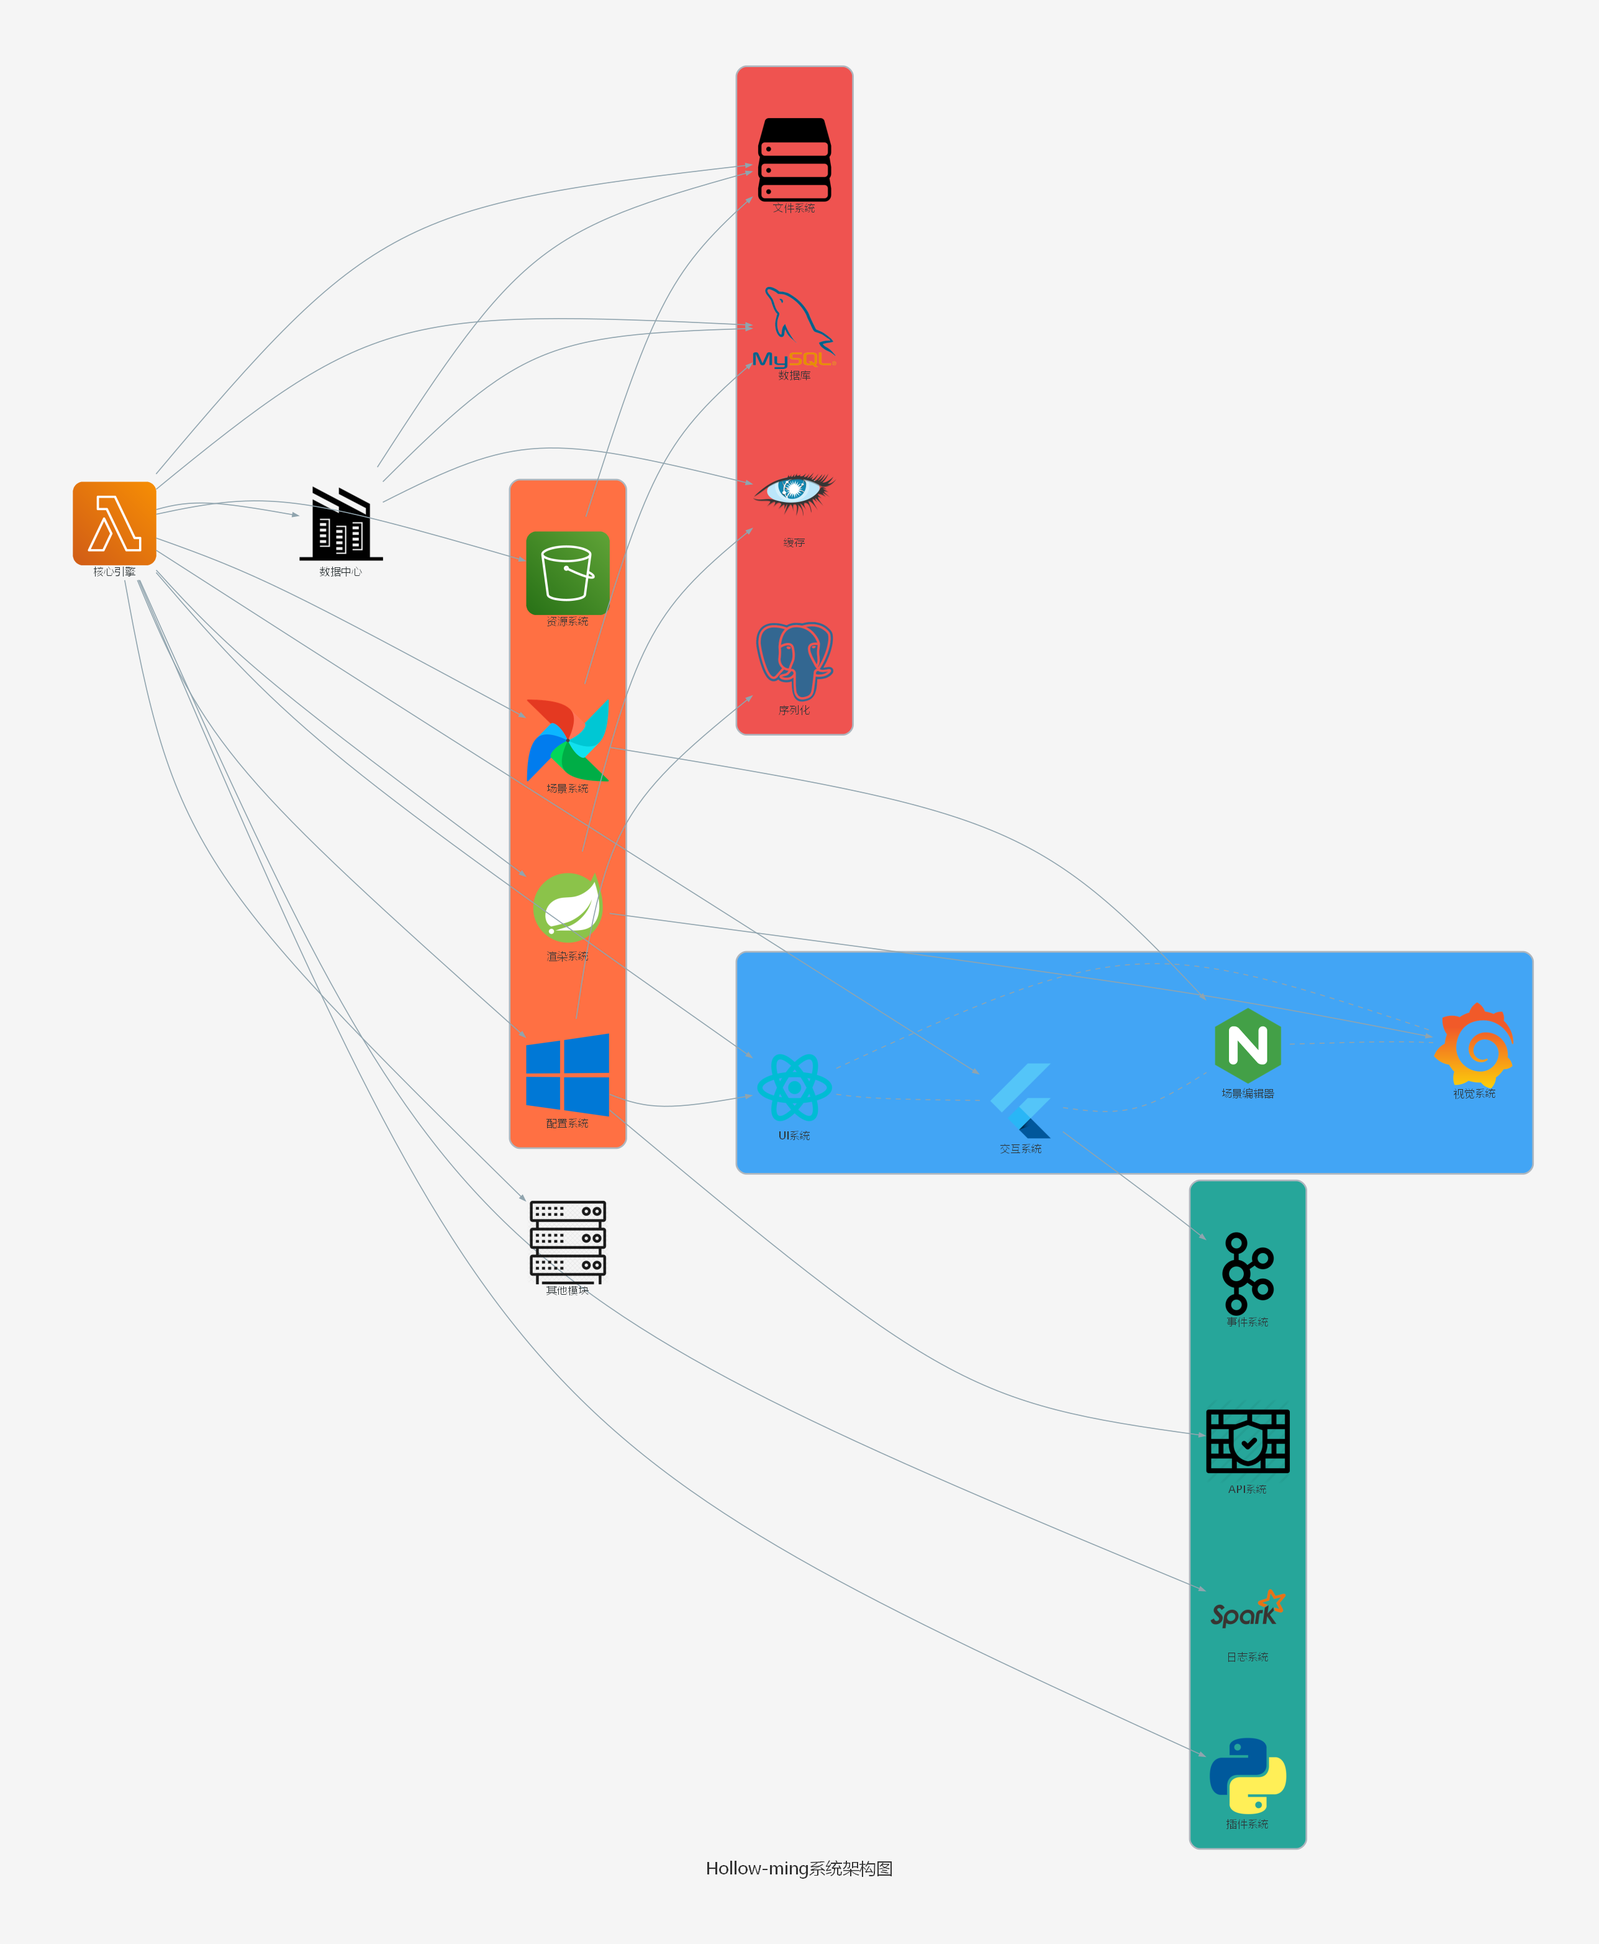
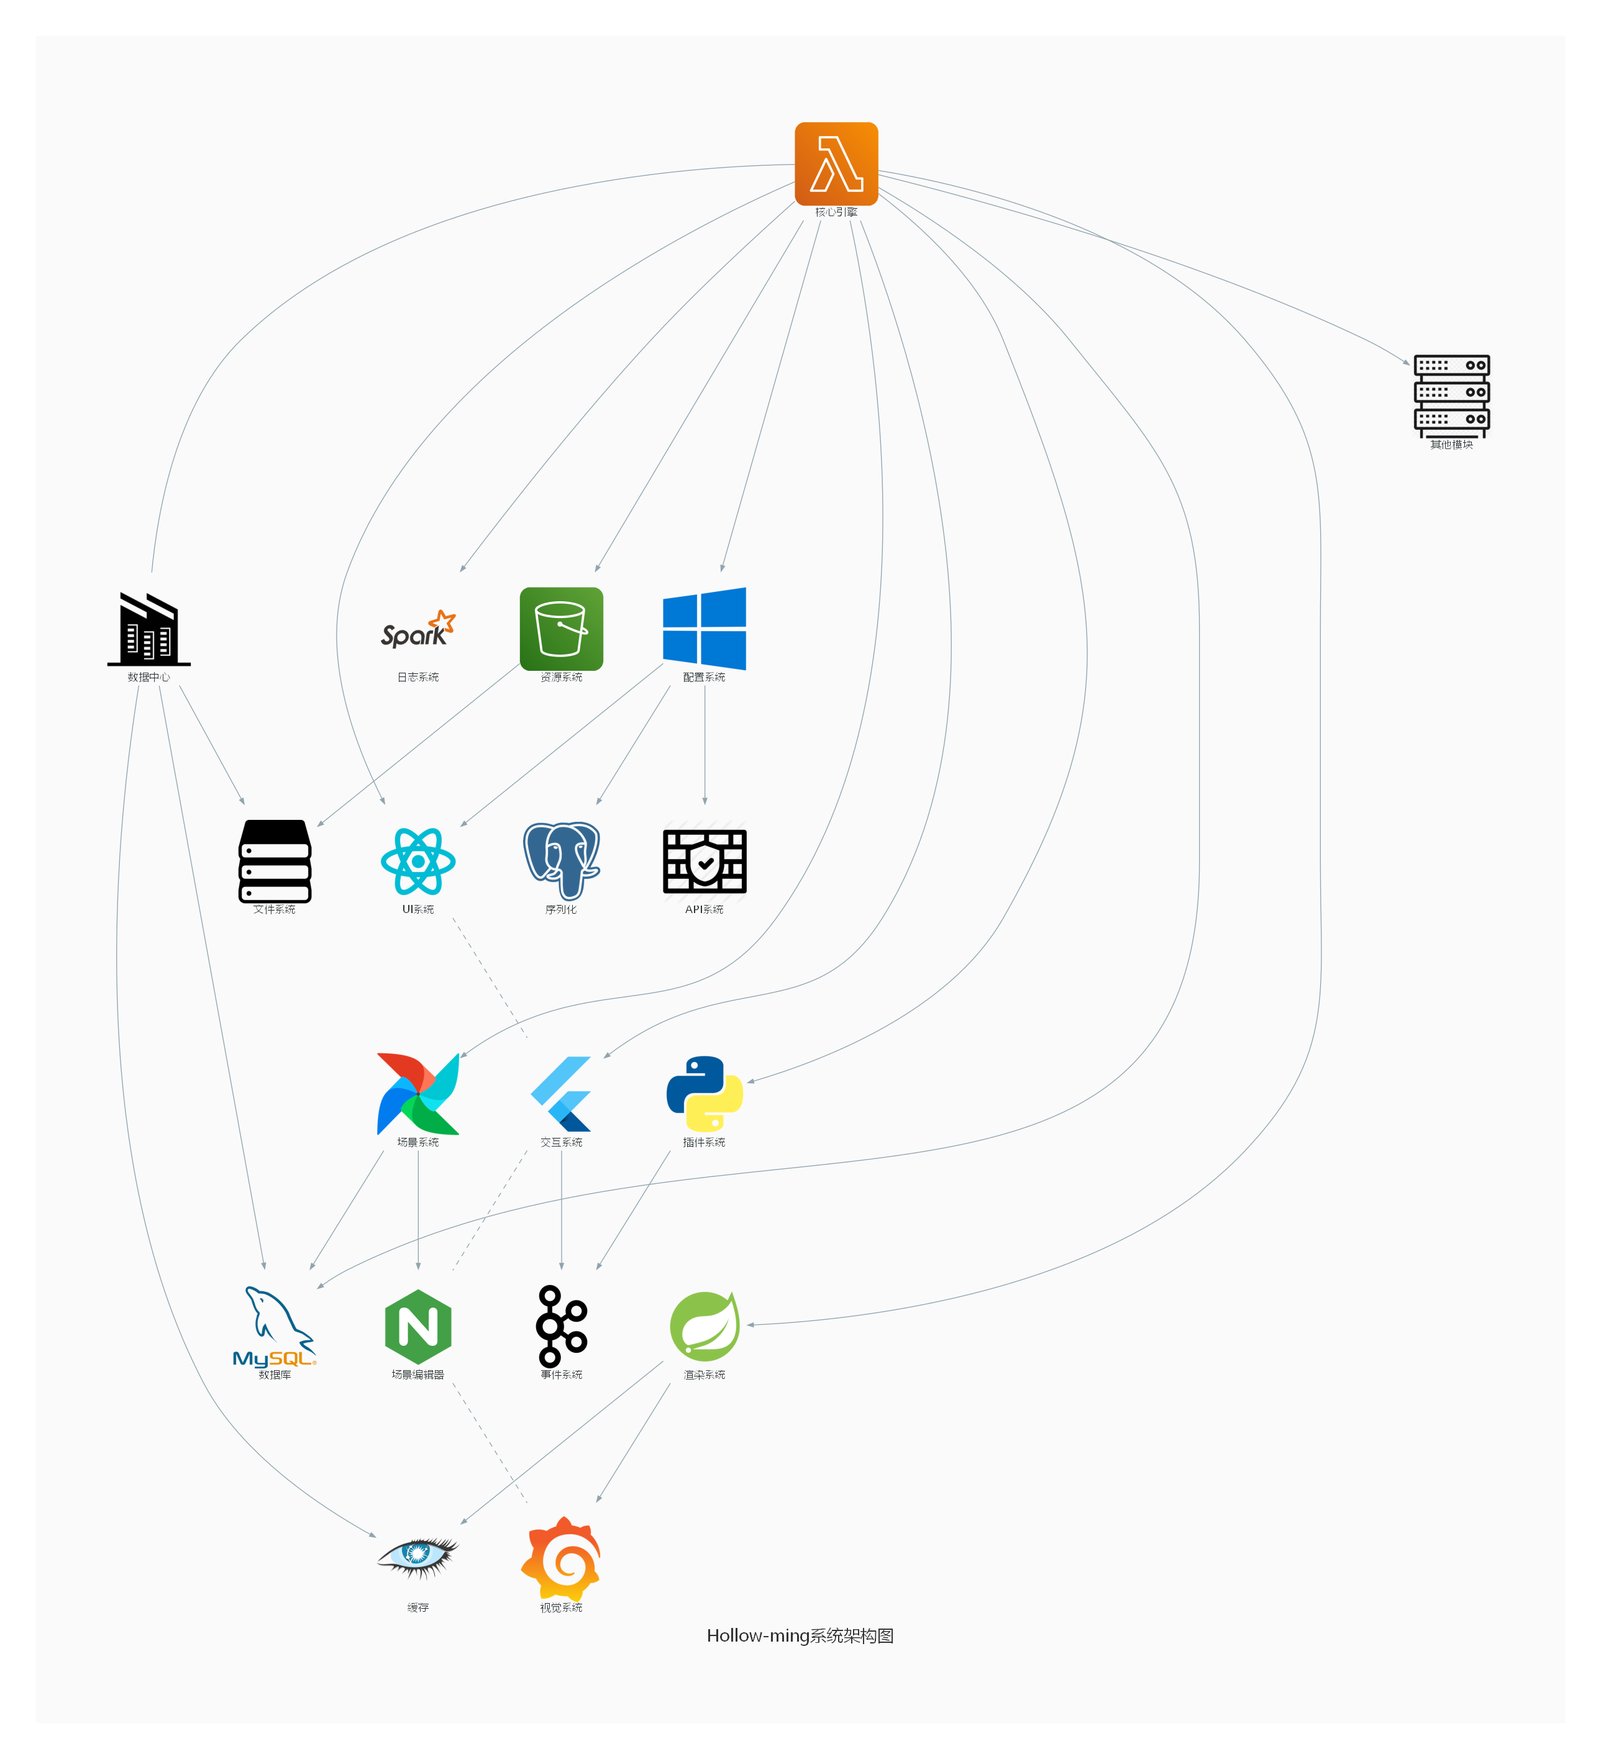
[图表] 优化中心辐射型架构图，完善环形排列，通过颜色梯度增强层次感

diff --git a/Diagrams/Architecture/system_architecture.py b/Diagrams/Architecture/system_architecture.py
@@ -23,6 +23,7 @@ Changed history:
                             2024/04/04: 修复图标初始化错误;
                             2024/04/04: 为每个节点添加专有图标，提高节点区分度;
                             2024/04/04: 重构为中心辐射型结构，核心引擎居中，其他模块环绕;
+                            2024/04/04: 优化中心辐射结构，完善环形排列，调整层次感;
 ----
 """
 
@@ -89,17 +90,30 @@ class IconNode(Node):
         return '#{:02x}{:02x}{:02x}'.format(*rgb)
 
 def generate_diagram():
-    """生成中心辐射型系统架构图"""
+    """生成中心辐射型系统架构图 - 优化环形布局"""
     
     # 颜色方案
     colors = {
-        'core': '#7e57c2',          # 紫色 - 核心层
-        'business': '#ff7043',      # 橙色 - 业务层
-        'presentation': '#42a5f5',  # 蓝色 - 表现层
-        'tool': '#26a69a',          # 青色 - 工具层
-        'data': '#ef5350',          # 红色 - 数据层
-        'module': '#78909c',        # 灰色 - 其他模块
-        'datacenter': '#333333',    # 深灰色 - 数据中心
+        'core': '#673ab7',          # 紫色 - 核心引擎
+        'datacenter': '#212121',    # 深灰色 - 数据中心
+        
+        # 业务层 - 橙色渐变
+        'business_main': '#f57c00', # 主色
+        'business_sec': '#ff9800',  # 次色
+        
+        # 表现层 - 蓝色渐变
+        'presentation_main': '#1976d2', # 主色 
+        'presentation_sec': '#42a5f5',  # 次色
+        
+        # 工具层 - 青色渐变
+        'tool_main': '#00796b',     # 主色
+        'tool_sec': '#26a69a',      # 次色
+        
+        # 数据层 - 红色渐变
+        'data_main': '#c62828',     # 主色
+        'data_sec': '#ef5350',      # 次色
+        
+        'module': '#546e7a',        # 灰蓝色 - 其他模块
         'cluster_bg': '#e3f2fd',    # 浅蓝色 - 分组背景
     }
     
@@ -109,20 +123,20 @@ def generate_diagram():
         filename="system_architecture",
         outformat="png",
         show=False,
-        # 更改为左右方向，便于创建辐射状结构
-        direction="LR",
+        direction="TB", # 改回上下方向，但改变布局策略
         graph_attr={
-            "bgcolor": "#f5f5f5",       # 浅灰色背景
+            "bgcolor": "#fafafa",       # 更浅的灰色背景
             "fontcolor": "#333333",
             "fontname": "Microsoft YaHei",
             "fontsize": "20",
-            "ranksep": "2.4",           # 增加层级间距
-            "nodesep": "0.9",
-            "pad": "1.0",
-            "splines": "curved",        # 使用曲线连接，增强辐射感
+            "ranksep": "2.0",           # 增加层级间距
+            "nodesep": "1.0",
+            "pad": "1.2",
+            "splines": "spline",        # 使用曲线连接，增强辐射感
             "overlap": "false",
             "concentrate": "false",
-            "rankdir": "LR",
+            "center": "true",
+            "margin": "0.6",
             "compound": "true",        # 允许向集群而不仅仅是节点连线
         },
         node_attr={
@@ -131,206 +145,172 @@ def generate_diagram():
         },
         edge_attr={
             "color": "#90a4ae",
-            "penwidth": "1.2",
+            "penwidth": "1.0",
             "arrowsize": "0.7",
         }
     ):
         # ===== 创建核心区域 =====
-        with Cluster("", graph_attr={"style": "invis"}):
-            # 创建核心节点 - 使用圆形更符合中心辐射的视觉效果
-            core_engine = Lambda("核心引擎")
-            core_engine._attrs["style"] = "filled"
-            core_engine._attrs["shape"] = "circle"
-            core_engine._attrs["fillcolor"] = colors['core']
-            core_engine._attrs["fontcolor"] = "#FFFFFF"
-            core_engine._attrs["width"] = "1.5"
-            core_engine._attrs["height"] = "1.5"
-            core_engine._attrs["fontsize"] = "15"
-            core_engine._attrs["penwidth"] = "2.0"
-            
-            # 创建数据中心节点
-            datacenter = Datacenter("数据中心")
-            datacenter._attrs["fillcolor"] = colors['datacenter']
-            datacenter._attrs["fontcolor"] = "#FFFFFF" 
-            datacenter._attrs["style"] = "filled"
+        # 创建核心节点 - 在正中央
+        core_engine = Lambda("核心引擎")
+        core_engine._attrs["style"] = "filled"
+        core_engine._attrs["shape"] = "circle"
+        core_engine._attrs["fillcolor"] = colors['core']
+        core_engine._attrs["fontcolor"] = "#FFFFFF"
+        core_engine._attrs["width"] = "1.8"
+        core_engine._attrs["height"] = "1.8"
+        core_engine._attrs["fontsize"] = "14"
+        core_engine._attrs["penwidth"] = "2.0"
         
-        # ===== 创建业务层（右上方） =====
-        with Cluster("业务层", graph_attr={
-            "bgcolor": colors['cluster_bg'],
-            "style": "filled,rounded",
-            "color": colors['business'],
-            "fontcolor": colors['business'],
-            "fontsize": "16",
-            "margin": "20",
-            "penwidth": "2.0",
-            "rank": "same",
-        }):
+        # 创建数据中心节点
+        datacenter = Datacenter("数据中心")
+        datacenter._attrs["fillcolor"] = colors['datacenter']
+        datacenter._attrs["fontcolor"] = "#FFFFFF" 
+        datacenter._attrs["style"] = "filled"
+        
+        # ============ 第一层 - 主要系统 ============
+        with Cluster("", graph_attr={"style": "invis"}):
+            # 放置在左上、右上、左下、右下四个主要位置
+            
+            # 业务层 - 主要系统
             config_system = Windows("配置系统")
             config_system._attrs["style"] = "filled,rounded"
-            config_system._attrs["fillcolor"] = colors['business']
+            config_system._attrs["fillcolor"] = colors['business_main']
             config_system._attrs["fontcolor"] = "#FFFFFF"
             
+            # 表现层 - 主要系统
+            ui_system = React("UI系统")
+            ui_system._attrs["style"] = "filled,rounded"
+            ui_system._attrs["fillcolor"] = colors['presentation_main']
+            ui_system._attrs["fontcolor"] = "#FFFFFF"
+            
+            # 数据层 - 主要系统
+            database = MySQL("数据库")
+            database._attrs["style"] = "filled,rounded"
+            database._attrs["fillcolor"] = colors['data_main']
+            database._attrs["fontcolor"] = "#FFFFFF"
+            
+            # 工具层 - 主要系统
+            plugin_system = Python("插件系统")
+            plugin_system._attrs["style"] = "filled,rounded"
+            plugin_system._attrs["fillcolor"] = colors['tool_main']
+            plugin_system._attrs["fontcolor"] = "#FFFFFF"
+        
+        # ============ 第二层 - 次要系统 ============
+        with Cluster("", graph_attr={"style": "invis"}):
+            # 业务层 - 次要系统
             render_system = Spring("渲染系统")
             render_system._attrs["style"] = "filled,rounded"
-            render_system._attrs["fillcolor"] = colors['business']
+            render_system._attrs["fillcolor"] = colors['business_sec']
             render_system._attrs["fontcolor"] = "#FFFFFF"
             
             resource_system = S3("资源系统")
             resource_system._attrs["style"] = "filled,rounded"
-            resource_system._attrs["fillcolor"] = colors['business']
+            resource_system._attrs["fillcolor"] = colors['business_sec']
             resource_system._attrs["fontcolor"] = "#FFFFFF"
             
             scene_system = Airflow("场景系统")
             scene_system._attrs["style"] = "filled,rounded"
-            scene_system._attrs["fillcolor"] = colors['business']
+            scene_system._attrs["fillcolor"] = colors['business_sec']
             scene_system._attrs["fontcolor"] = "#FFFFFF"
-        
-        # ===== 创建表现层（右下方） =====
-        with Cluster("表现层", graph_attr={
-            "bgcolor": colors['cluster_bg'],
-            "style": "filled,rounded",
-            "color": colors['presentation'],
-            "fontcolor": colors['presentation'],
-            "fontsize": "16",
-            "margin": "20",
-            "penwidth": "2.0",
-            "rank": "same",
-        }):
-            ui_system = React("UI系统")
-            ui_system._attrs["style"] = "filled,rounded"
-            ui_system._attrs["fillcolor"] = colors['presentation']
-            ui_system._attrs["fontcolor"] = "#FFFFFF"
             
+            # 表现层 - 次要系统
             interaction_system = Flutter("交互系统")
             interaction_system._attrs["style"] = "filled,rounded"
-            interaction_system._attrs["fillcolor"] = colors['presentation']
+            interaction_system._attrs["fillcolor"] = colors['presentation_sec']
             interaction_system._attrs["fontcolor"] = "#FFFFFF"
             
             scene_editor = Nginx("场景编辑器")
             scene_editor._attrs["style"] = "filled,rounded"
-            scene_editor._attrs["fillcolor"] = colors['presentation']
+            scene_editor._attrs["fillcolor"] = colors['presentation_sec']
             scene_editor._attrs["fontcolor"] = "#FFFFFF"
             
             visual_system = Grafana("视觉系统")
             visual_system._attrs["style"] = "filled,rounded"
-            visual_system._attrs["fillcolor"] = colors['presentation']
+            visual_system._attrs["fillcolor"] = colors['presentation_sec']
             visual_system._attrs["fontcolor"] = "#FFFFFF"
-        
-        # ===== 创建数据层（左下方） =====
-        with Cluster("数据层", graph_attr={
-            "bgcolor": colors['cluster_bg'],
-            "style": "filled,rounded",
-            "color": colors['data'],
-            "fontcolor": colors['data'],
-            "fontsize": "16",
-            "margin": "20",
-            "penwidth": "2.0",
-            "rank": "same",
-        }):
+            
+            # 数据层 - 次要系统
             file_system = Storage("文件系统")
             file_system._attrs["style"] = "filled,rounded"
-            file_system._attrs["fillcolor"] = colors['data']
+            file_system._attrs["fillcolor"] = colors['data_sec']
             file_system._attrs["fontcolor"] = "#FFFFFF"
-            
-            database = MySQL("数据库")
-            database._attrs["style"] = "filled,rounded"
-            database._attrs["fillcolor"] = colors['data']
-            database._attrs["fontcolor"] = "#FFFFFF"
             
             cache = Cassandra("缓存")
             cache._attrs["style"] = "filled,rounded"
-            cache._attrs["fillcolor"] = colors['data']
+            cache._attrs["fillcolor"] = colors['data_sec']
             cache._attrs["fontcolor"] = "#FFFFFF"
             
             serialization = PostgreSQL("序列化")
             serialization._attrs["style"] = "filled,rounded"
-            serialization._attrs["fillcolor"] = colors['data']
+            serialization._attrs["fillcolor"] = colors['data_sec']
             serialization._attrs["fontcolor"] = "#FFFFFF"
-        
-        # ===== 创建工具层（左上方） =====
-        with Cluster("工具层", graph_attr={
-            "bgcolor": colors['cluster_bg'],
-            "style": "filled,rounded",
-            "color": colors['tool'],
-            "fontcolor": colors['tool'],
-            "fontsize": "16",
-            "margin": "20",
-            "penwidth": "2.0",
-            "rank": "same",
-        }):
-            plugin_system = Python("插件系统")
-            plugin_system._attrs["style"] = "filled,rounded"
-            plugin_system._attrs["fillcolor"] = colors['tool']
-            plugin_system._attrs["fontcolor"] = "#FFFFFF"
             
+            # 工具层 - 次要系统
             event_system = Kafka("事件系统")
             event_system._attrs["style"] = "filled,rounded"
-            event_system._attrs["fillcolor"] = colors['tool']
+            event_system._attrs["fillcolor"] = colors['tool_sec']
             event_system._attrs["fontcolor"] = "#FFFFFF"
             
             log_system = Spark("日志系统")
             log_system._attrs["style"] = "filled,rounded"
-            log_system._attrs["fillcolor"] = colors['tool']
+            log_system._attrs["fillcolor"] = colors['tool_sec']
             log_system._attrs["fontcolor"] = "#FFFFFF"
             
             api_system = Firewall("API系统")
             api_system._attrs["style"] = "filled,rounded"
-            api_system._attrs["fillcolor"] = colors['tool']
+            api_system._attrs["fillcolor"] = colors['tool_sec']
             api_system._attrs["fontcolor"] = "#FFFFFF"
         
-        # 其他模块（单独显示）
+        # 其他模块
         others = Rack("其他模块")
         others._attrs["style"] = "filled,rounded"
         others._attrs["fillcolor"] = colors['module']
         others._attrs["fontcolor"] = "#FFFFFF"
         
-        # ===== 创建从核心到各层的连接 =====
-        # 数据中心与核心引擎
-        core_engine >> datacenter
+        # ===== 创建连接 =====
+        # 核心与数据中心连接
+        core_engine - datacenter
         
-        # 从核心引擎到各个系统的连接
-        core_engine >> Edge(minlen="2") >> scene_system
-        core_engine >> Edge(minlen="2") >> render_system
-        core_engine >> Edge(minlen="2") >> resource_system
-        core_engine >> Edge(minlen="2") >> config_system
+        # 连接从核心到关键系统 - 主要连接
+        core_engine >> Edge(constraint="true", minlen="2") >> config_system
+        core_engine >> Edge(constraint="true", minlen="2") >> ui_system  
+        core_engine >> Edge(constraint="true", minlen="2") >> database
+        core_engine >> Edge(constraint="true", minlen="2") >> plugin_system
         
-        core_engine >> Edge(minlen="2") >> ui_system
-        core_engine >> Edge(minlen="2") >> interaction_system
+        # 连接核心到其他系统 - 次要连接
+        core_engine >> render_system
+        core_engine >> resource_system
+        core_engine >> scene_system
+        core_engine >> interaction_system
+        core_engine >> log_system
+        core_engine >> others
         
-        core_engine >> Edge(minlen="2") >> plugin_system
-        core_engine >> Edge(minlen="2") >> log_system
-        
-        core_engine >> Edge(minlen="2") >> database
-        core_engine >> Edge(minlen="2") >> file_system
-        
-        core_engine >> Edge(minlen="2") >> others
-        
-        # ===== 创建各层内的连接 =====
-        # 业务层连接
-        scene_system >> scene_editor
-        render_system >> visual_system
+        # 业务层连接 - 形成树状结构
+        config_system >> api_system
+        config_system >> serialization
         config_system >> ui_system
+        
+        render_system >> visual_system
+        render_system >> cache
+        
         resource_system >> file_system
         
-        # 数据层连接
-        datacenter >> database
-        datacenter >> cache
-        datacenter >> file_system
+        scene_system >> scene_editor
+        scene_system >> database
         
         # 表现层内部连接（虚线）
         ui_system - Edge(style="dashed") - interaction_system
         interaction_system - Edge(style="dashed") - scene_editor
         scene_editor - Edge(style="dashed") - visual_system
-        visual_system - Edge(style="dashed") - ui_system
         
         # 工具层连接
+        plugin_system >> event_system
         interaction_system >> event_system
-        config_system >> api_system
         
-        # 业务层到数据层的连接
-        scene_system >> database
-        render_system >> cache
-        config_system >> serialization
+        # 数据层连接
+        datacenter >> database
+        datacenter >> cache
+        datacenter >> file_system
 
 if __name__ == '__main__':
     generate_diagram() 
